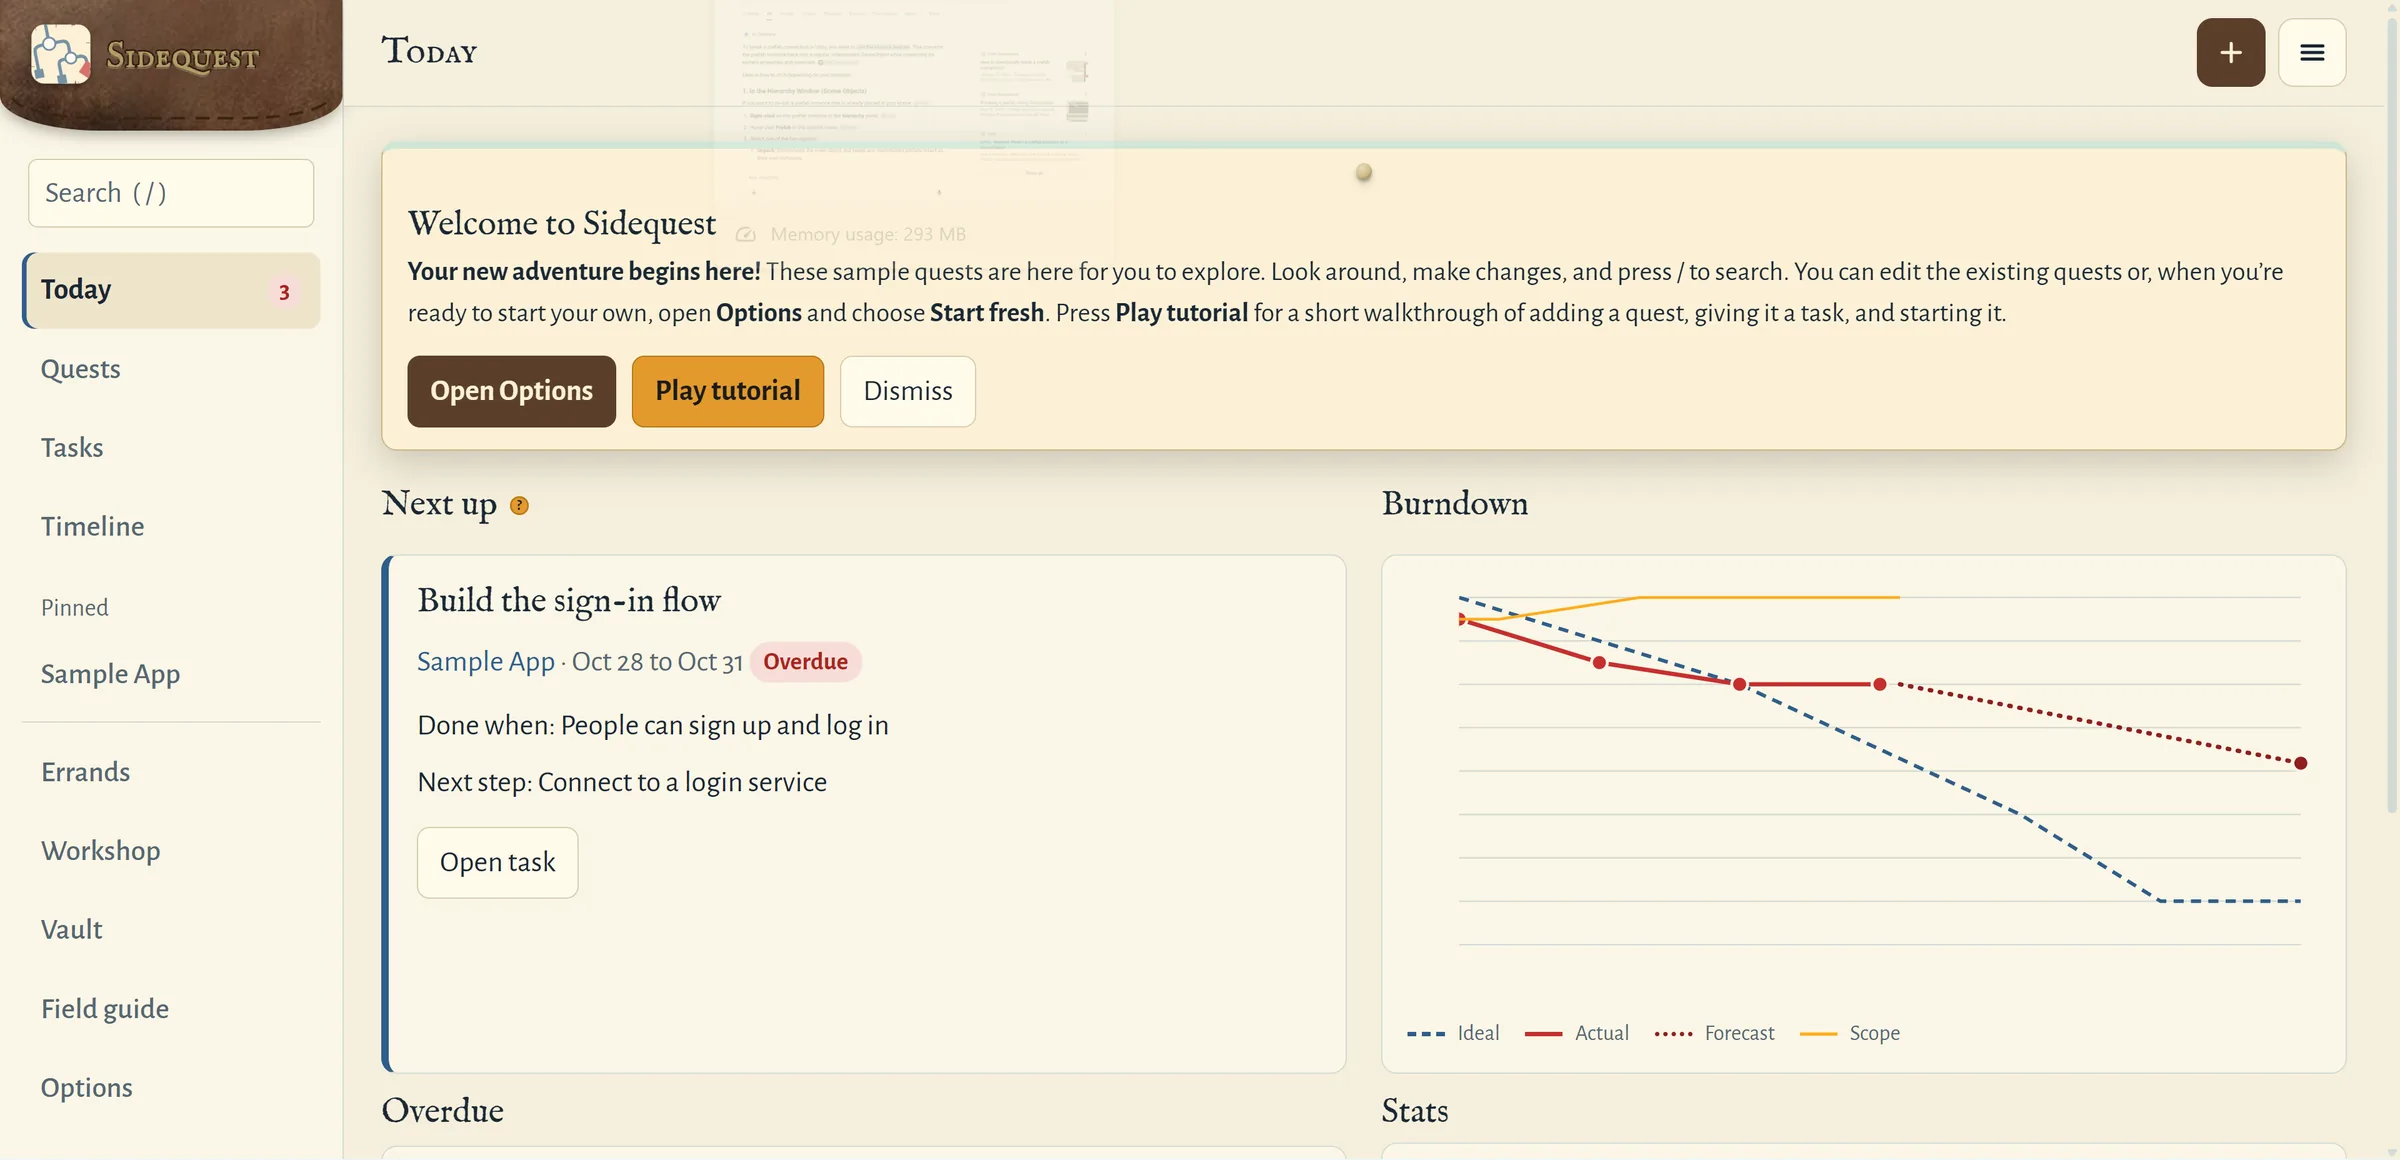
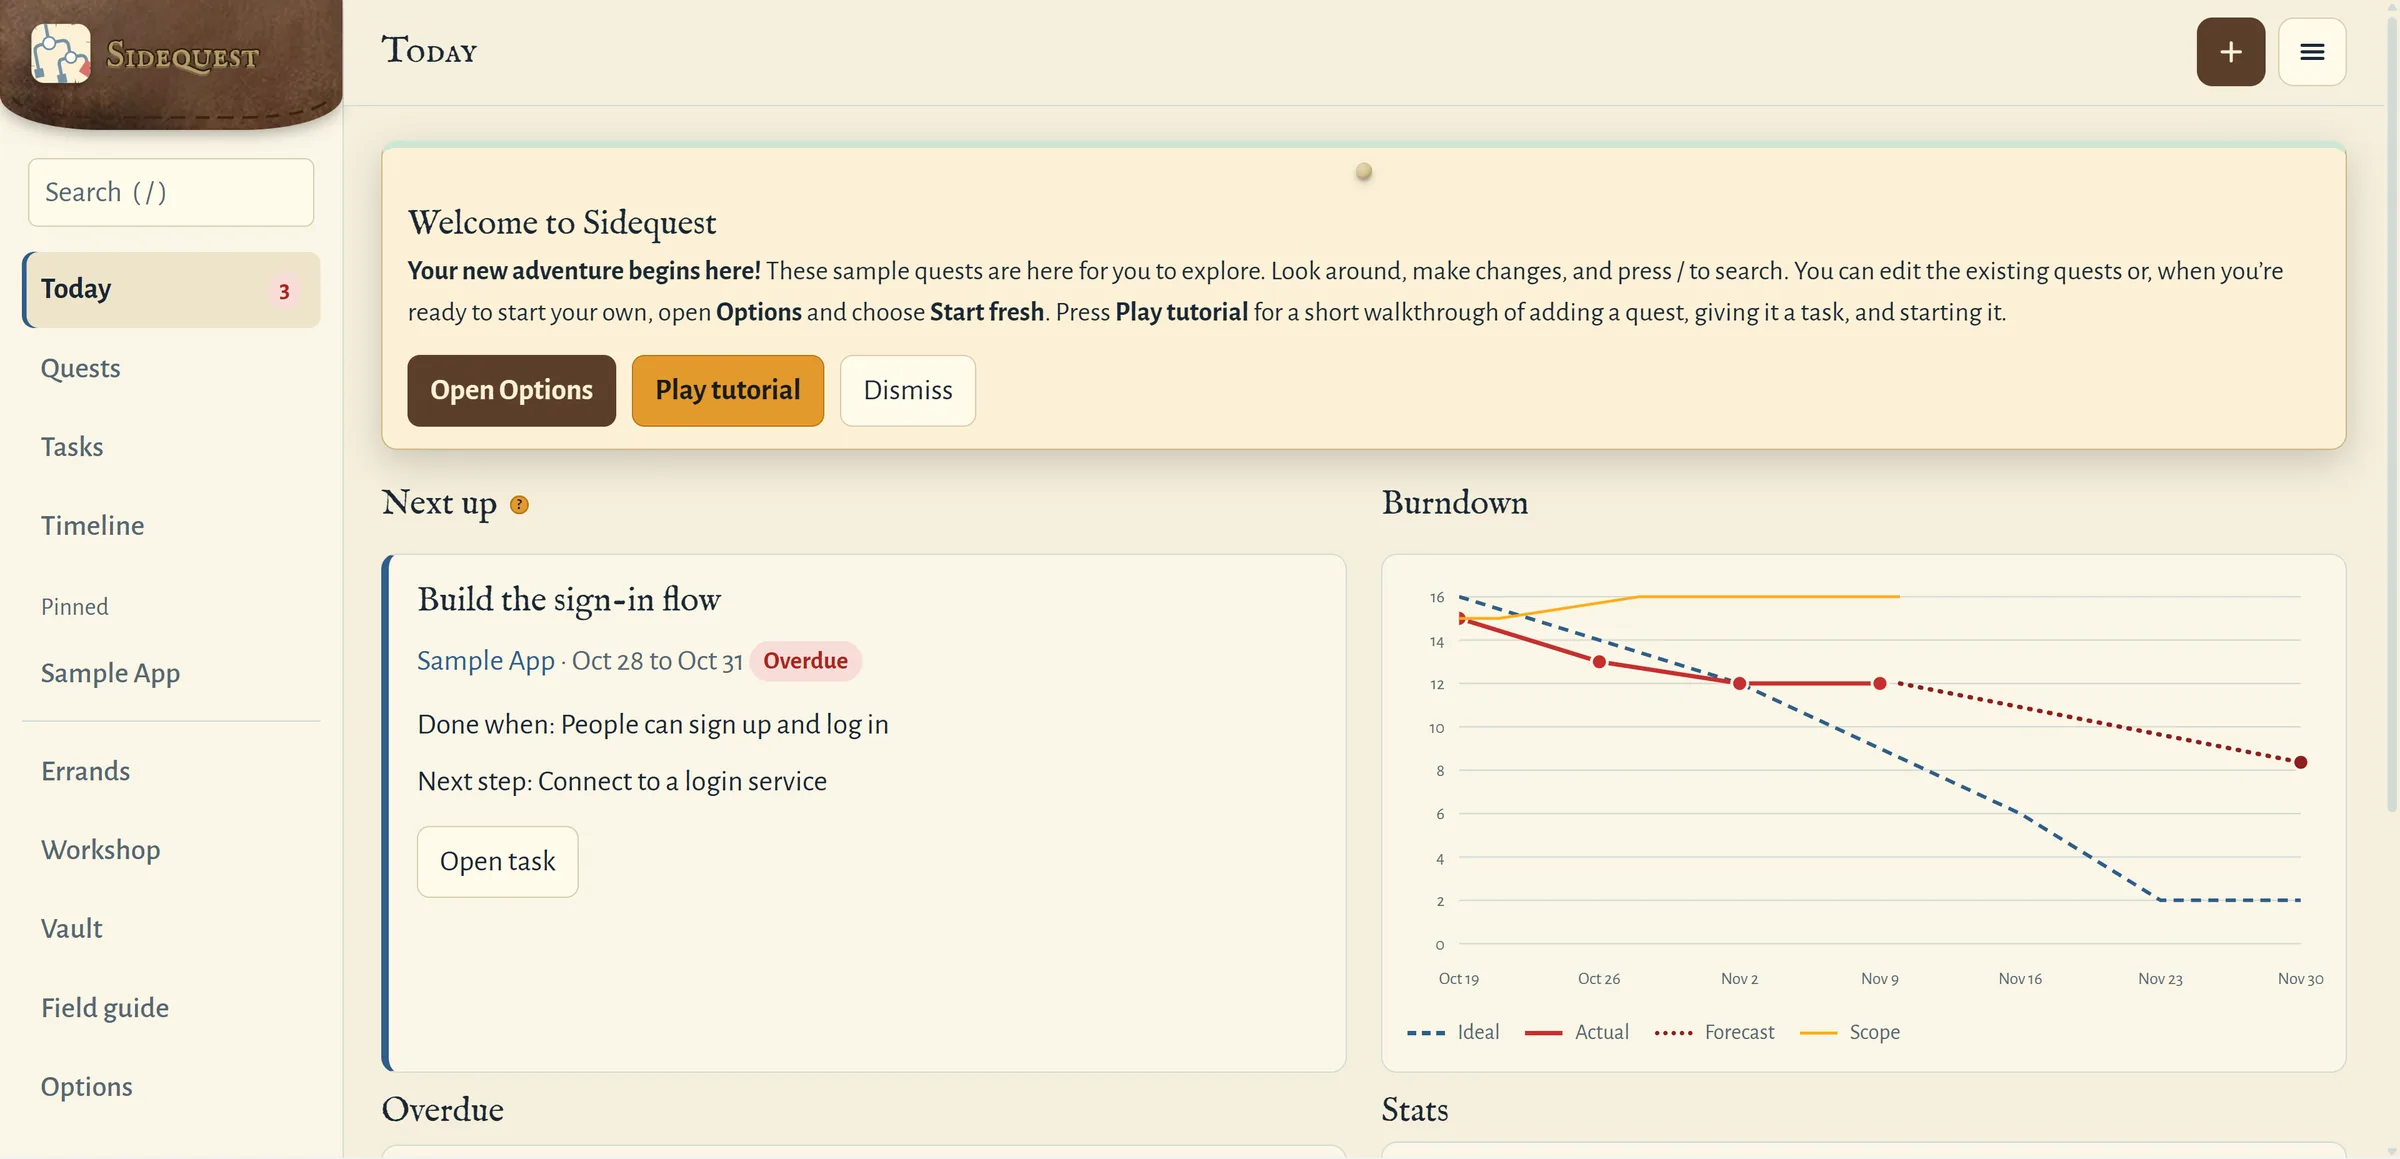
Retaken Today and Vault screenshots

diff --git a/features.html b/features.html
@@ -133,7 +133,7 @@ gtag('config', 'G-JM2CZ1DLQ4');
           <li><strong>Today:</strong> See your next task, anything overdue, and a burndown chart showing your progress.</li>
           <li><strong>Quests page:</strong> See what you’re working on and what’s coming up next in each quest. You’ll also find candidates waiting to get started and completed quests.</li>
         </ul>
-        <figure class="shot"><div class="shotbox" style="--ar: 2400 / 1160"><img src="assets/screenshots/ss-today-1200.webp" srcset="assets/screenshots/ss-today-1200.webp 1200w, assets/screenshots/ss-today-2400.webp 2400w" sizes="(min-width: 72rem) 24rem, 100vw" width="2400" height="1160" loading="lazy" decoding="async" alt="Sidequest’s Today page, with the welcome notice, a Next up card for an overdue task, and a Burndown chart."></div></figure>
+        <figure class="shot"><div class="shotbox" style="--ar: 2400 / 1159"><img src="assets/screenshots/ss-today-1200.webp" srcset="assets/screenshots/ss-today-1200.webp 1200w, assets/screenshots/ss-today-2400.webp 2400w" sizes="(min-width: 72rem) 24rem, 100vw" width="2400" height="1159" loading="lazy" decoding="async" alt="Sidequest’s Today page, with the welcome notice, a Next up card for an overdue task, and a Burndown chart."></div></figure>
       </article>
       <article class="posting" style="--rx:-0.5;--ry:0.3;--bend:50px;--bbox:60px">
         <h2>Staying organized</h2>
